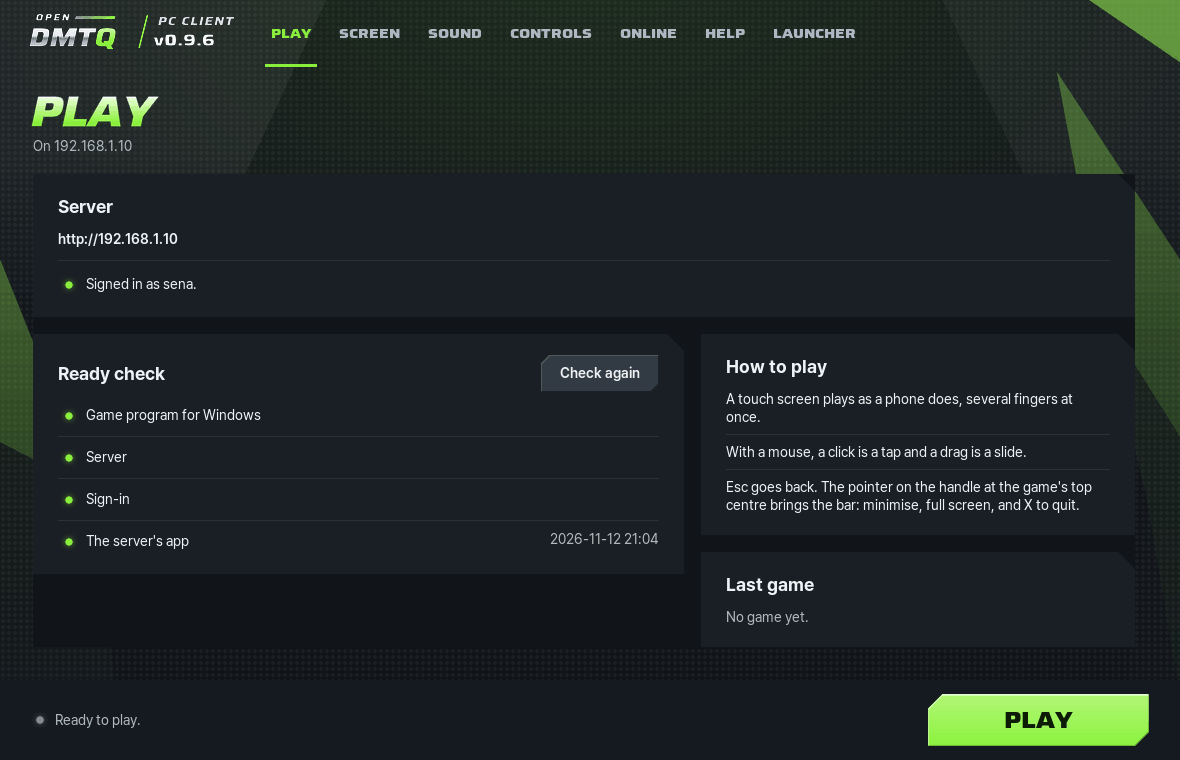
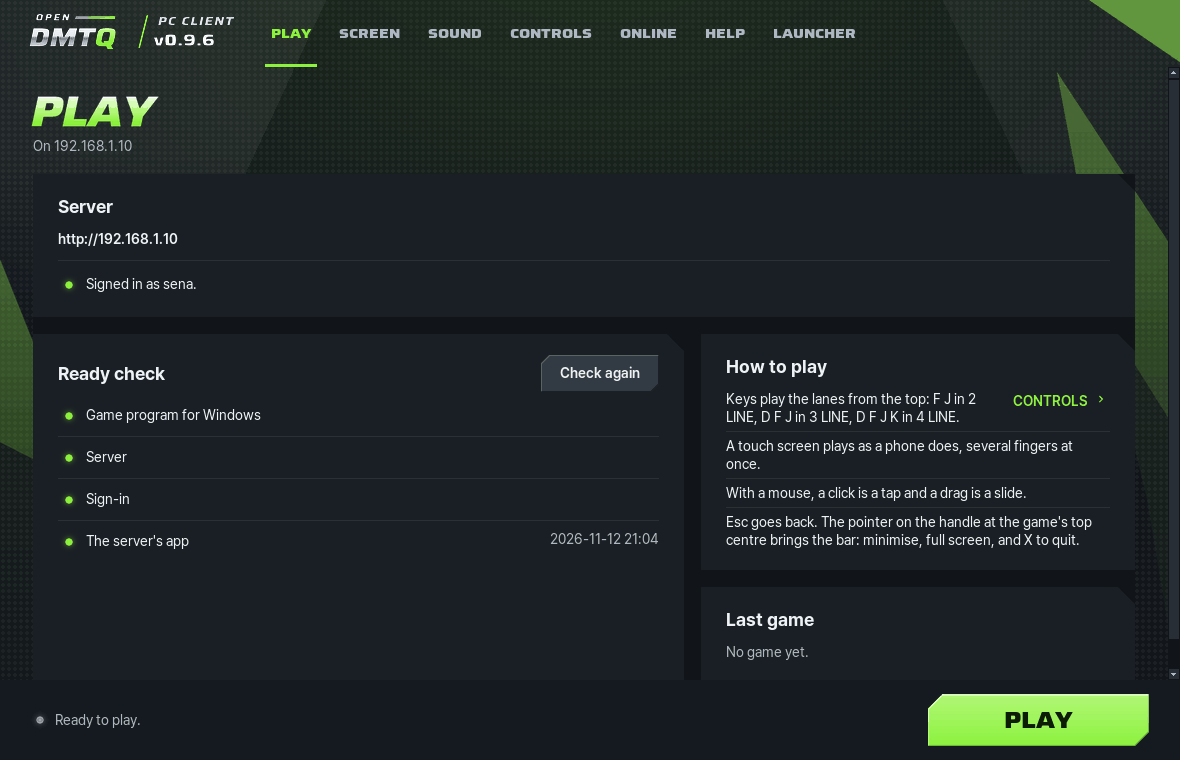
Docs: the PC client's guide, the first start's questions and what Next waits for, PLAY's How to play with keyboard play first and its ready-check links, the Controls page's refusals, Delete, held keys and the input method, --set checked as a whole, the stopped window, and the PLAY page's picture tak

diff --git a/docs/test-cases.md b/docs/test-cases.md
@@ -527,3 +527,13 @@ it runs ([testing.md](testing.md)):
 | WIN-117 | The launcher's Controls page with the keyboard alone, at its smallest window, in both languages | Tab goes to the switch, each mode's boxes from its top lane (a lane's key, then its second), Reset keys, then PLAY; each box it reaches comes into view; Enter makes a box wait for a key; Tab on a waiting box goes on to the next and stops the wait | `client/tests/ui/keyboard.py#not the switch, the boxes, Reset keys then PLAY`, `client/tests/ui/keyboard.py#reached by Tab stayed out of view`, `client/tests/ui/keyboard.py#Enter on a box did not make it wait for a key`, `client/tests/ui/keyboard.py#Tab on a waiting box left it` | unit |
 | WIN-118 | The launcher's PLAY page in each of its states, at every window size and at 200 %, in both languages | The ready check as tall as its column: its rows and Check again from its top, the two columns ending on one line with no slab of the page's dark field under it | `client/tests/ui/shots.py#the ready check ends` | unit |
 | WIN-119 | The PC client's end to end under Wine: two keys for keyboard play taken on the Controls page by the keyboard alone, the key right of L on a US layout and the key that prints A on a French one; 4 LINE's keys from the command line; PLAY again | Each goes in by its place, read through Windows' layout: Semicolon, and Q with A beside it on the French layout (the log says what the keyboard prints there); `--status` lists them; `--set keys_4line=` takes the digits; the player's settings file for the game carries keyboard play on and each mode's keys | `client/tests/windows/e2e.sh#keyboard play: the Controls page took the keys by their places`, `client/tests/windows/e2e.sh#the settings file carries keyboard play and its keys` | unit |
+| WIN-121 | The first-start guide's steps in both languages, and a step whose Next waits (SERVER with no server answering, SIGN IN before a sign-in, DOWNLOAD without the app) | Each step's question is its page's title (in Korean set in Pretendard Bold, leant as the wide face), its few words under it, the step's name in the strip above; while Next waits, a muted line at the foot of the step's card says what for, none while the server is asked or the app downloads, none once Next can go on, none on a step that never waits | `client/tests/test_guide.py#test_each_step_that_waits_says_for_what`, `client/tests/test_guide.py#test_nothing_once_next_can_go_on`, `client/tests/test_guide.py#test_nothing_while_the_steps_own_work_is_under_way`, `client/tests/test_guide.py#test_steps_that_never_make_next_wait_say_nothing`, `client/tests/test_guide.py#test_the_lines_say_what_to_do_in_both_languages` | unit |
+| WIN-122 | How to play on the PLAY page and on the guide's STAGE START, keyboard play on (its default keys, keys set on the Controls page or by `--set`) and off, in both languages | Keyboard play's line first, as the settings have it: Keys play the lanes from the top: F J in 2 LINE, D F J in 3 LINE, D F J K in 4 LINE (a lane's second key after a /), or Keyboard play is off; on PLAY with CONTROLS at its end, none in the guide; then the touch screen, the mouse, and Esc with the bar's X; STAGE START shows them in a card under the ready check; PLAY's buttons and links in view at the window's own size | `client/tests/test_pages.py#test_the_keys_as_the_settings_have_them`, `client/tests/test_pages.py#test_keys_set_on_controls_or_by_set_follow`, `client/tests/test_pages.py#test_off_says_it_is_off`, `client/tests/test_pages.py#test_the_line_names_no_page_its_link_names`, `client/tests/test_pages.py#test_how_to_play_goes_on_as_before`, `client/tests/test_main.py#Keys play the lanes from the top: F/G J in 2 LINE`, `client/tests/ui/shots.py#is out of view until the page scrolls` | unit |
+| WIN-123 | The ready check's rows on the PLAY and Help pages and on STAGE START: a sign-in that ended, the app missing, the installed player missing, PLAY's own download, a server that does not answer | A row's link is named after the page that sees to it, by the menu's own name (ONLINE) in both languages, never a bare Fix, and none in the guide; an installed launcher's missing player has Repair, which runs at once; what will change is a yellow ring, told from a lime dot by its shape as well as its colour | `client/tests/test_pages.py#test_a_link_is_named_after_the_page_it_opens`, `client/tests/test_pages.py#test_what_stops_play_is_a_problem_the_rest_will_change`, `client/tests/test_pages.py#test_the_guide_has_no_menu_to_go_to`, `client/tests/test_pages.py#test_the_installed_player_is_put_back_by_repair`, `client/tests/test_pages.py#test_what_play_does_and_a_silent_server_have_no_link`, `client/tests/test_pages.py#test_a_fine_row_names_what_it_is_about`, `client/tests/test_pages.py#test_will_change_is_a_ring` | unit |
+| WIN-124 | Where the launcher's window opens: a laptop at 150 % (1920x1080, Windows 11's taskbar), 1366x768 at 100 %, a large screen, a taskbar on the left or at the top | Inside the work area, the title bar and frame counted, so that the strip with PLAY is above the taskbar; 1180x760 where there is room, centred, a third of the spare height above it; off Windows the screen Tk sees and nothing of Windows' asked | `client/tests/test_window_room.py#test_a_laptop_at_150_percent_keeps_play_above_the_taskbar`, `client/tests/test_window_room.py#test_a_small_laptop_at_100_percent`, `client/tests/test_window_room.py#test_a_large_screen_keeps_the_wanted_size`, `client/tests/test_window_room.py#test_a_taskbar_on_the_left_or_at_the_top`, `client/tests/test_window_room.py#test_no_title_bar_to_count_off_windows`, `client/tests/test_window_room.py#test_the_launcher_opens_inside_the_work_area` | unit |
+| WIN-125 | The launcher's version beside the logo, on the Launcher page and on the command line (`--status`, `--update`), installed and run from source | One source for all of them: the installed version, else the code's own; no other module works it out | `client/tests/test_updates.py#test_the_installed_version_first`, `client/tests/test_updates.py#test_the_codes_own_outside_an_install`, `client/tests/test_updates.py#test_the_logo_shows_the_same_version`, `client/tests/test_updates.py#test_no_other_place_works_the_version_out_itself` | unit |
+| WIN-126 | The window an error nobody expected ends in, with the log's place known and not; the dialogs over Repair and Delete all while they work | Open the log folder, quiet, then Close, lit, which Enter and the window's X answer; Open the log folder opens the folder the log is in; Close alone where the log's place is not known; Repair's dialog says what comes back, Delete all's that the launcher then closes | `client/tests/test_main.py#test_the_stopped_window_opens_the_logs_folder`, `client/tests/ui/shots.py#Enter did not close the stopped dialog`, `client/tests/ui/shots.py#tools.WORKING_DETAIL[key]` | unit |
+| WIN-127 | The launcher's words in both languages: a log and play records, the outcomes of Repair, Clear game data and Uninstall, the game open, the last game, the guide's name, a Korean particle after a sign, a letter or a digit | Korean says 로그 for a log and keeps 기록 for play records; an outcome is a sentence (Repaired., 복구하지 못했습니다.), Repair is 복구 throughout; The game is open everywhere; the last game in Korean sentences; 처음 시작 안내; a particle against a sign, a letter or a digit with no space (/로, PLAY를) | `client/tests/test_words.py#test_a_log_is_a_log_and_records_are_records`, `client/tests/test_words.py#test_a_particle_after_a_sign_a_letter_or_a_digit_is_attached` | unit |
+| WIN-128 | The Controls page's waiting box on Windows with a Korean or Japanese input method on, a key held down (Space or Enter that started the wait, a key that went in), Backspace and Delete, a German layout's ß | While a box waits the input method is off on the window Windows gives the keys to (Tk's toplevel, and the focused window when it is another), and back when the wait ends (a key in, Esc, Tab, Reset keys, the page going); a key held down counts once, its repeats left out until it is let go; Delete alone takes a key away, Backspace refused by its name; ß shown as it prints beside Minus | `client/tests/test_keys.py#test_the_input_method_is_off_on_the_window_that_gets_the_keys`, `client/tests/test_keys.py#test_another_focused_window_goes_off_too`, `client/tests/test_keys.py#test_nothing_of_windows_elsewhere`, `client/tests/test_keys.py#test_a_held_space_counts_once`, `client/tests/test_keys.py#test_a_held_enter_leaves_the_prompt`, `client/tests/test_keys.py#test_a_key_that_went_in_is_not_taken_again_while_held`, `client/tests/test_keys.py#test_only_delete_takes_a_key_away`, `client/tests/test_keys.py#test_what_a_box_shows_beside_the_name`, `client/tests/test_keys.py#test_a_refused_key_named_in_words` | unit |
+| WIN-129 | `--set` with several settings, one of them refused (a key twice after a good `keys_4line`, a frame limit not offered after a volume); a key a lane does not take refused on the Controls page | Every `--set` checked before any is applied: exit 2 with why, none kept and none said as changed; all good, all applied in order. The words say the lanes are separated by spaces, and which keys a lane takes (the letters, the digits above them, Space and the signs a US keyboard has around the letters) | `client/tests/test_main.py#test_a_bad_setting_anywhere_changes_none`, `client/tests/test_keys.py#test_lanes_are_separated_by_spaces`, `client/tests/test_keys.py#test_a_refusal_says_which_keys_a_lane_takes` | unit |
+| WIN-130 | The contract with the player for keyboard play: the lane keys' names and places, and the settings file's keys | The launcher's names and scan codes are the player's own table (kNames in `arm32/desktop/keyboard_play.h`), read from it, so that a change on one side alone fails; every key the launcher writes, keyboard play's four too, is one the player's reader takes (`settings.cpp`), none let off | `client/tests/test_keys.py#test_the_names_are_the_players`, `client/tests/test_values.py#test_the_player_reads_every_key_and_value` | unit |

diff --git a/docs/windows-player.md b/docs/windows-player.md
@@ -18,7 +18,8 @@ then plays against the server as it does on a phone.
    app: **More info**, then **Run anyway**. The installer is not signed by a publisher Windows knows. Windows 11's
    Smart App Control, when it is on, blocks unsigned programs, this one among them, and has no **Run anyway**.
 3. The launcher's first start walks through the server (already filled in), the sign-in with your site ID, the app's
-   download, the picture and the sound, then **PLAY**.
+   download, the picture and the sound, then the ready check and how to play, and **PLAY**. Each step asks its
+   question at the top; while **Next** waits, a line under the step says for what.
 
 The installer from the project's [releases](https://github.com/kanggu12/openDMTQ/releases/latest) (`OpenDMTQ-Setup.exe`)
 is the same program without a server: its first start asks for the server's address. One launcher keeps several
@@ -50,11 +51,11 @@ Not tried yet: a Linux desktop's own graphics driver and sound, touch screens, a
 
 ## The launcher
 
-![The launcher's PLAY page: the server and the sign-in, the ready check, how to play, the last game, and PLAY](images/client-play.png)
+![The launcher's PLAY page: the server and the sign-in, the ready check, how to play with keyboard play's keys first, the last game, and PLAY](images/client-play.png)
 
 | Page | What it has |
 | :--- | :--- |
-| **Play** | The server and the account, the checks before a start (the player, the server, the sign-in, the app), how to play, the last play, and **PLAY** |
+| **Play** | The server and the account, the checks before a start (the player, the server, the sign-in, the app), one that is not fine with a link to the page that sees to it, how to play (keyboard play's keys first, or that it is off, with **CONTROLS** beside them), the last play, and **PLAY** |
 | **Screen** | Full screen or a window, the window's size, VSync, the frame limit, the FPS counter and its position, the render scale and its upscaler, anti-aliasing |
 | **Sound** | The volume, the device, **Shared** or **Exclusive**, the buffer |
 | **Controls** | Keyboard play: on or off, and the keys of each lane of 2, 3 and 4 LINE; what the touch screen, the mouse and the keyboard do |
@@ -75,10 +76,11 @@ game ends.
 lanes of 2, 3 and 4 LINE from the top, each with a box for its key and one for a second key: click a box (or Tab to it
 and press Enter), then press the key. The key goes in by its place on the keyboard, and is named as the US layout's key
 at that place (`Semicolon` for the key right of L), so another layout plays the same places; in grey beside the name,
-what the PC's own layout prints there when it says more (`;`, or `Ö` on a German keyboard). A key that another lane of
-the same LINE plays already, or one no lane takes (Enter, the arrows, the numpad, Shift), is refused in words under the
-table, and the box waits for another. Esc keeps the key that was there, Delete takes away a key the lane has a second
-of, and **Reset keys** puts back F J, D F J and D F J K. The game reads the keys at the next **PLAY**.
+what the PC's own layout prints there when it says more (`;`, or `Ö` on a German keyboard). A key another lane, or the
+same lane, already plays, or one no lane takes (Enter, the arrows, the numpad, Shift, Backspace), is refused in words
+under the table, and the box waits for another. Esc keeps the key that was there, Delete removes one of a lane's two
+keys, and **Reset keys** puts back F J, D F J and D F J K. A key held down counts once, and while a box waits a Korean
+or Japanese input method is off, so that a letter goes in by its place. The game reads the keys at the next **PLAY**.
 
 ### The command line
 
@@ -88,7 +90,8 @@ of, and **Reset keys** puts back F J, D F J and D F J K. The game reads the keys
 window opens on its pages), `--servers` (the servers it knows, as **Online** lists them), `--open-log player|launcher`, `--play`,
 `--update`, `--forget URL`, `--reset`, `--repair`, `--clear-game-data` and `--uninstall [--delete-data]`, with `--yes`
 to answer their questions (`--help` lists them all). While the launcher's window is open, the flags that change what
-it keeps are refused. `--set` takes the settings of the **Screen**, **Sound** and **Controls** pages:
+it keeps are refused. `--set` takes the settings of the **Screen**, **Sound** and **Controls** pages; every `--set`
+of a line is checked before any is applied, so one the launcher does not take changes none of them:
 
 | Setting | Values (the default first) | On the page |
 | :--- | :--- | :--- |
@@ -331,7 +334,9 @@ title says so alone), and says where it can be watched.
 - **The launcher says the server runs an older OpenDMTQ:** the PC client needs a server of 0.8 or newer.
 - **The player is missing or a file of the program is damaged:** **Help**, **Repair** puts the program's files back
   from the package it was installed from.
-- **The installer says a game is going on:** finish it and close the game; installing replaces the player it plays in.
+- **The installer says the game is open:** finish it and close the game; installing replaces the player it plays in.
+- **The launcher stopped with an error:** its window says what happened and where its log is; **Open the log folder**
+  opens the folder.
 - **The sign-in is refused:** the ID and password are the site's. Too many wrong passwords make the server wait a while
   before the next try.
 - **Windows blocks it with no Run anyway:** Smart App Control is on (step 2 above).
